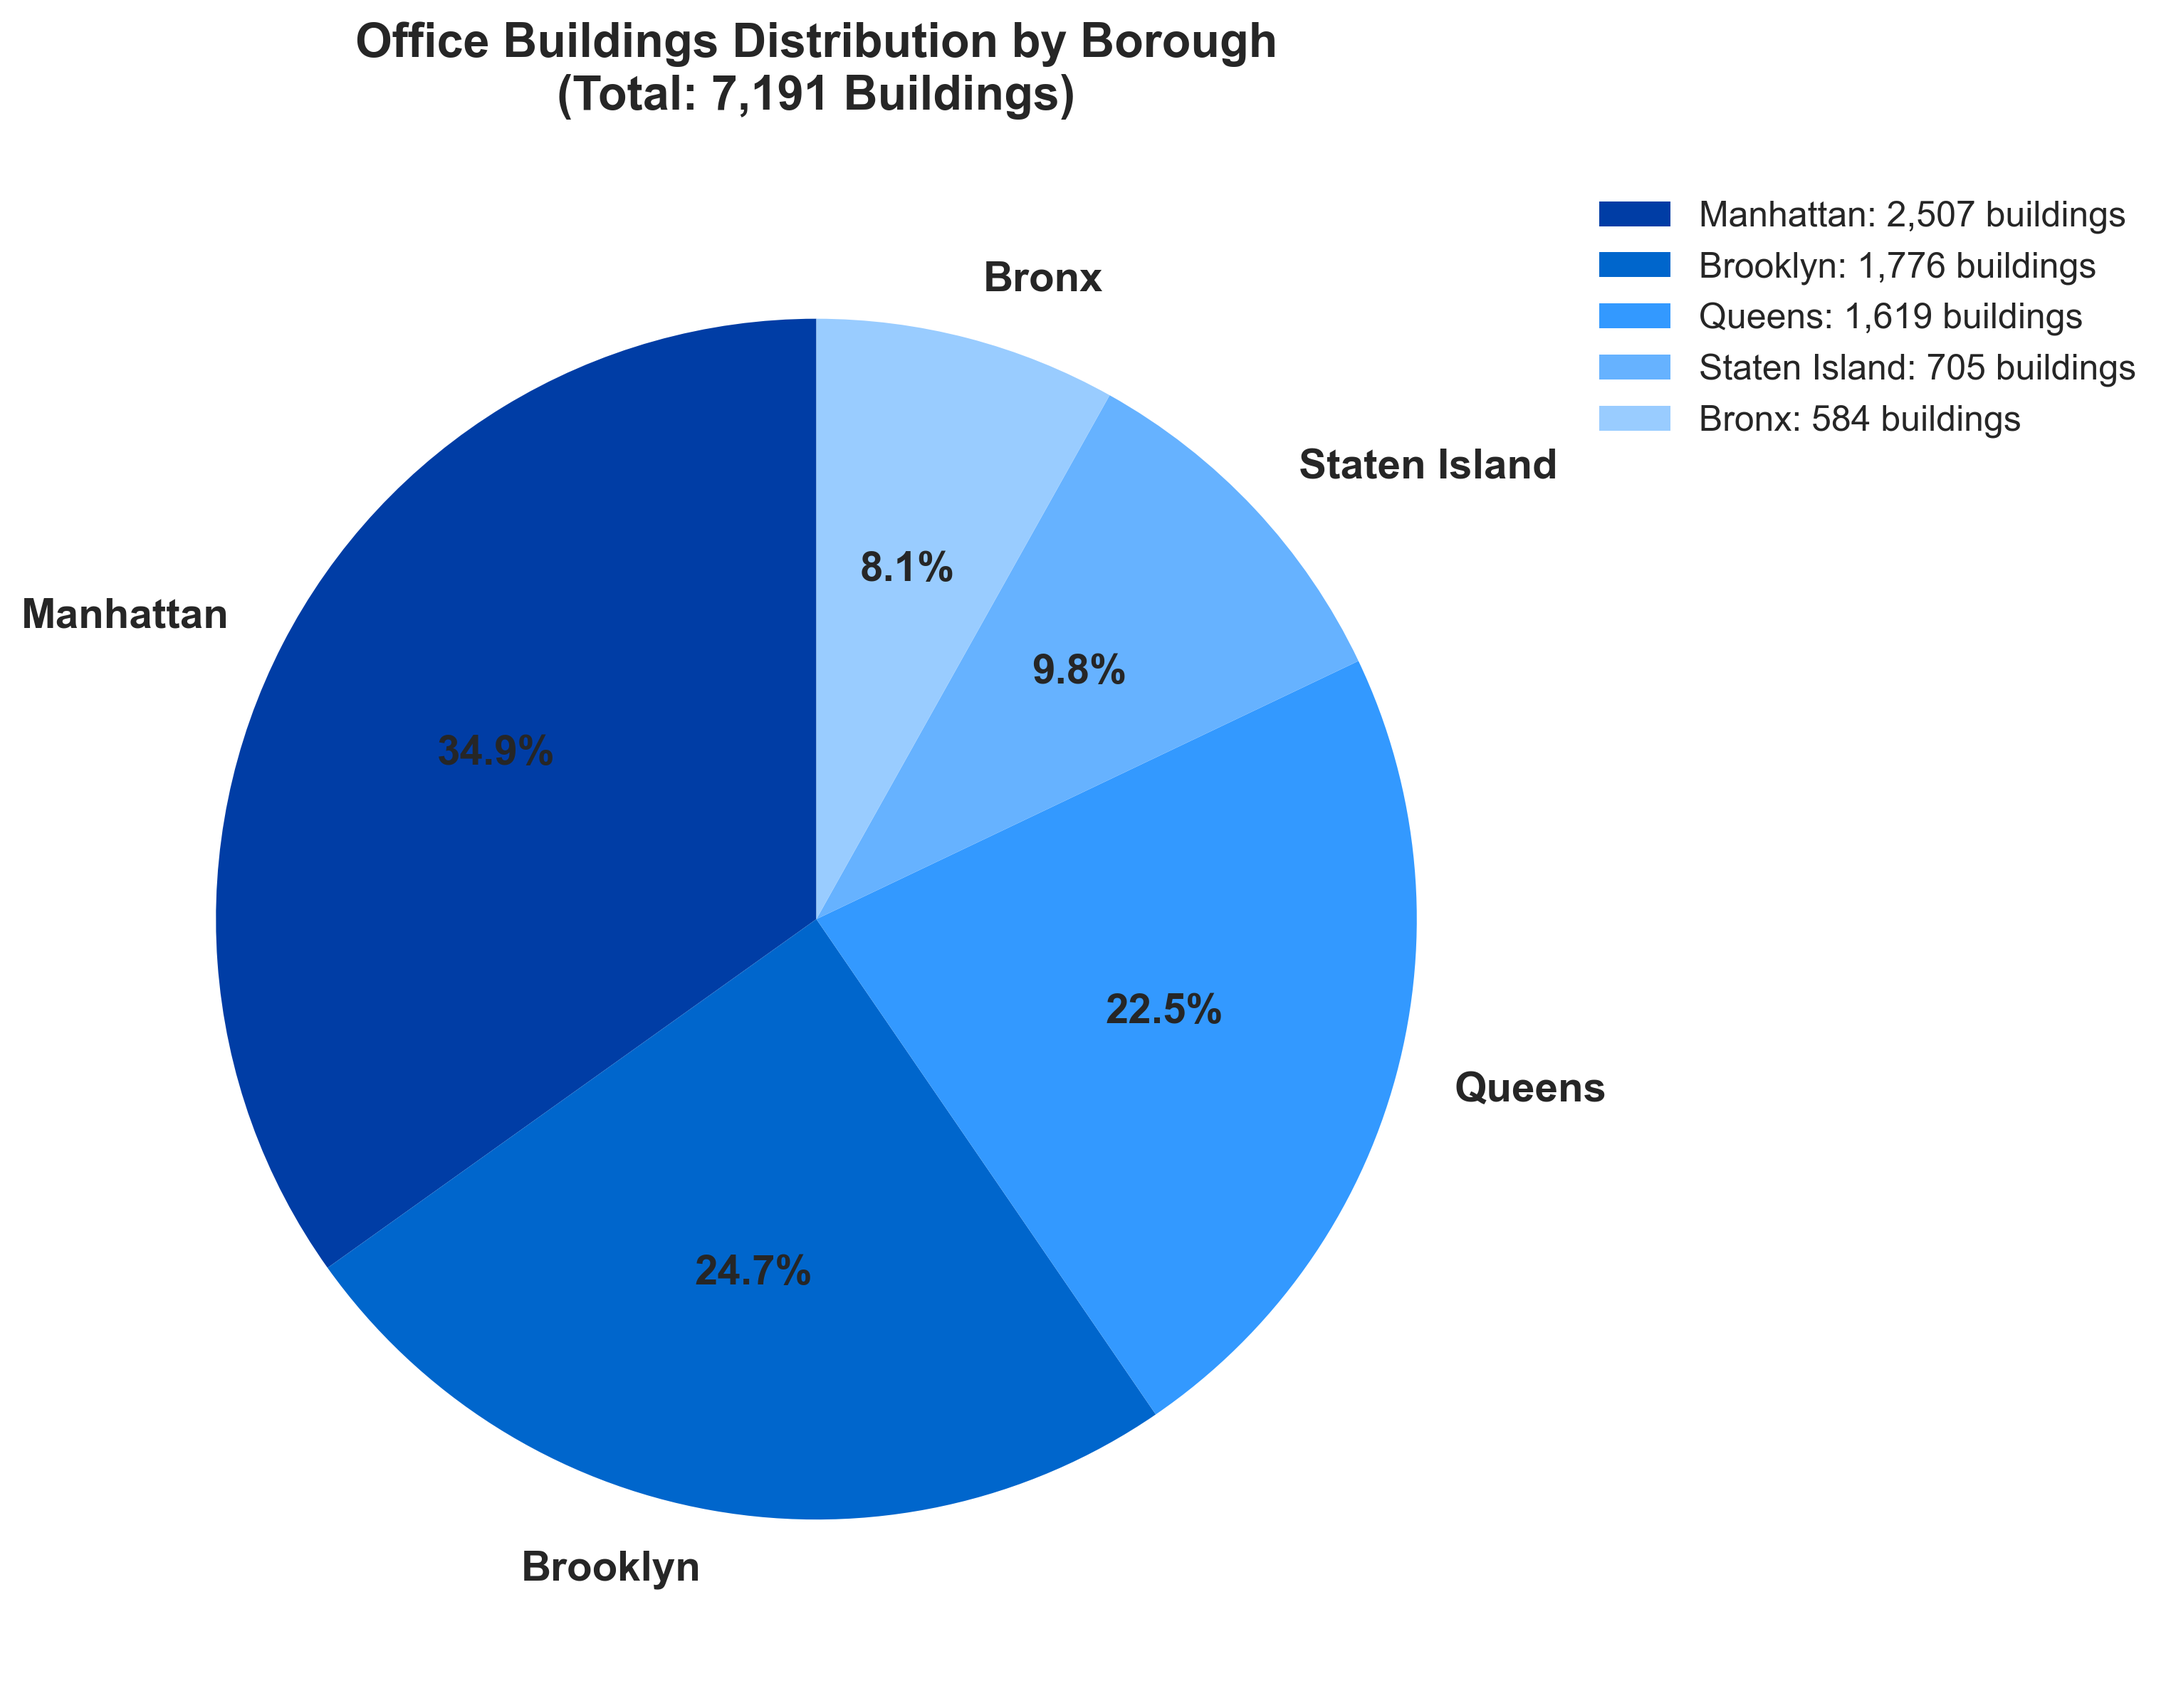
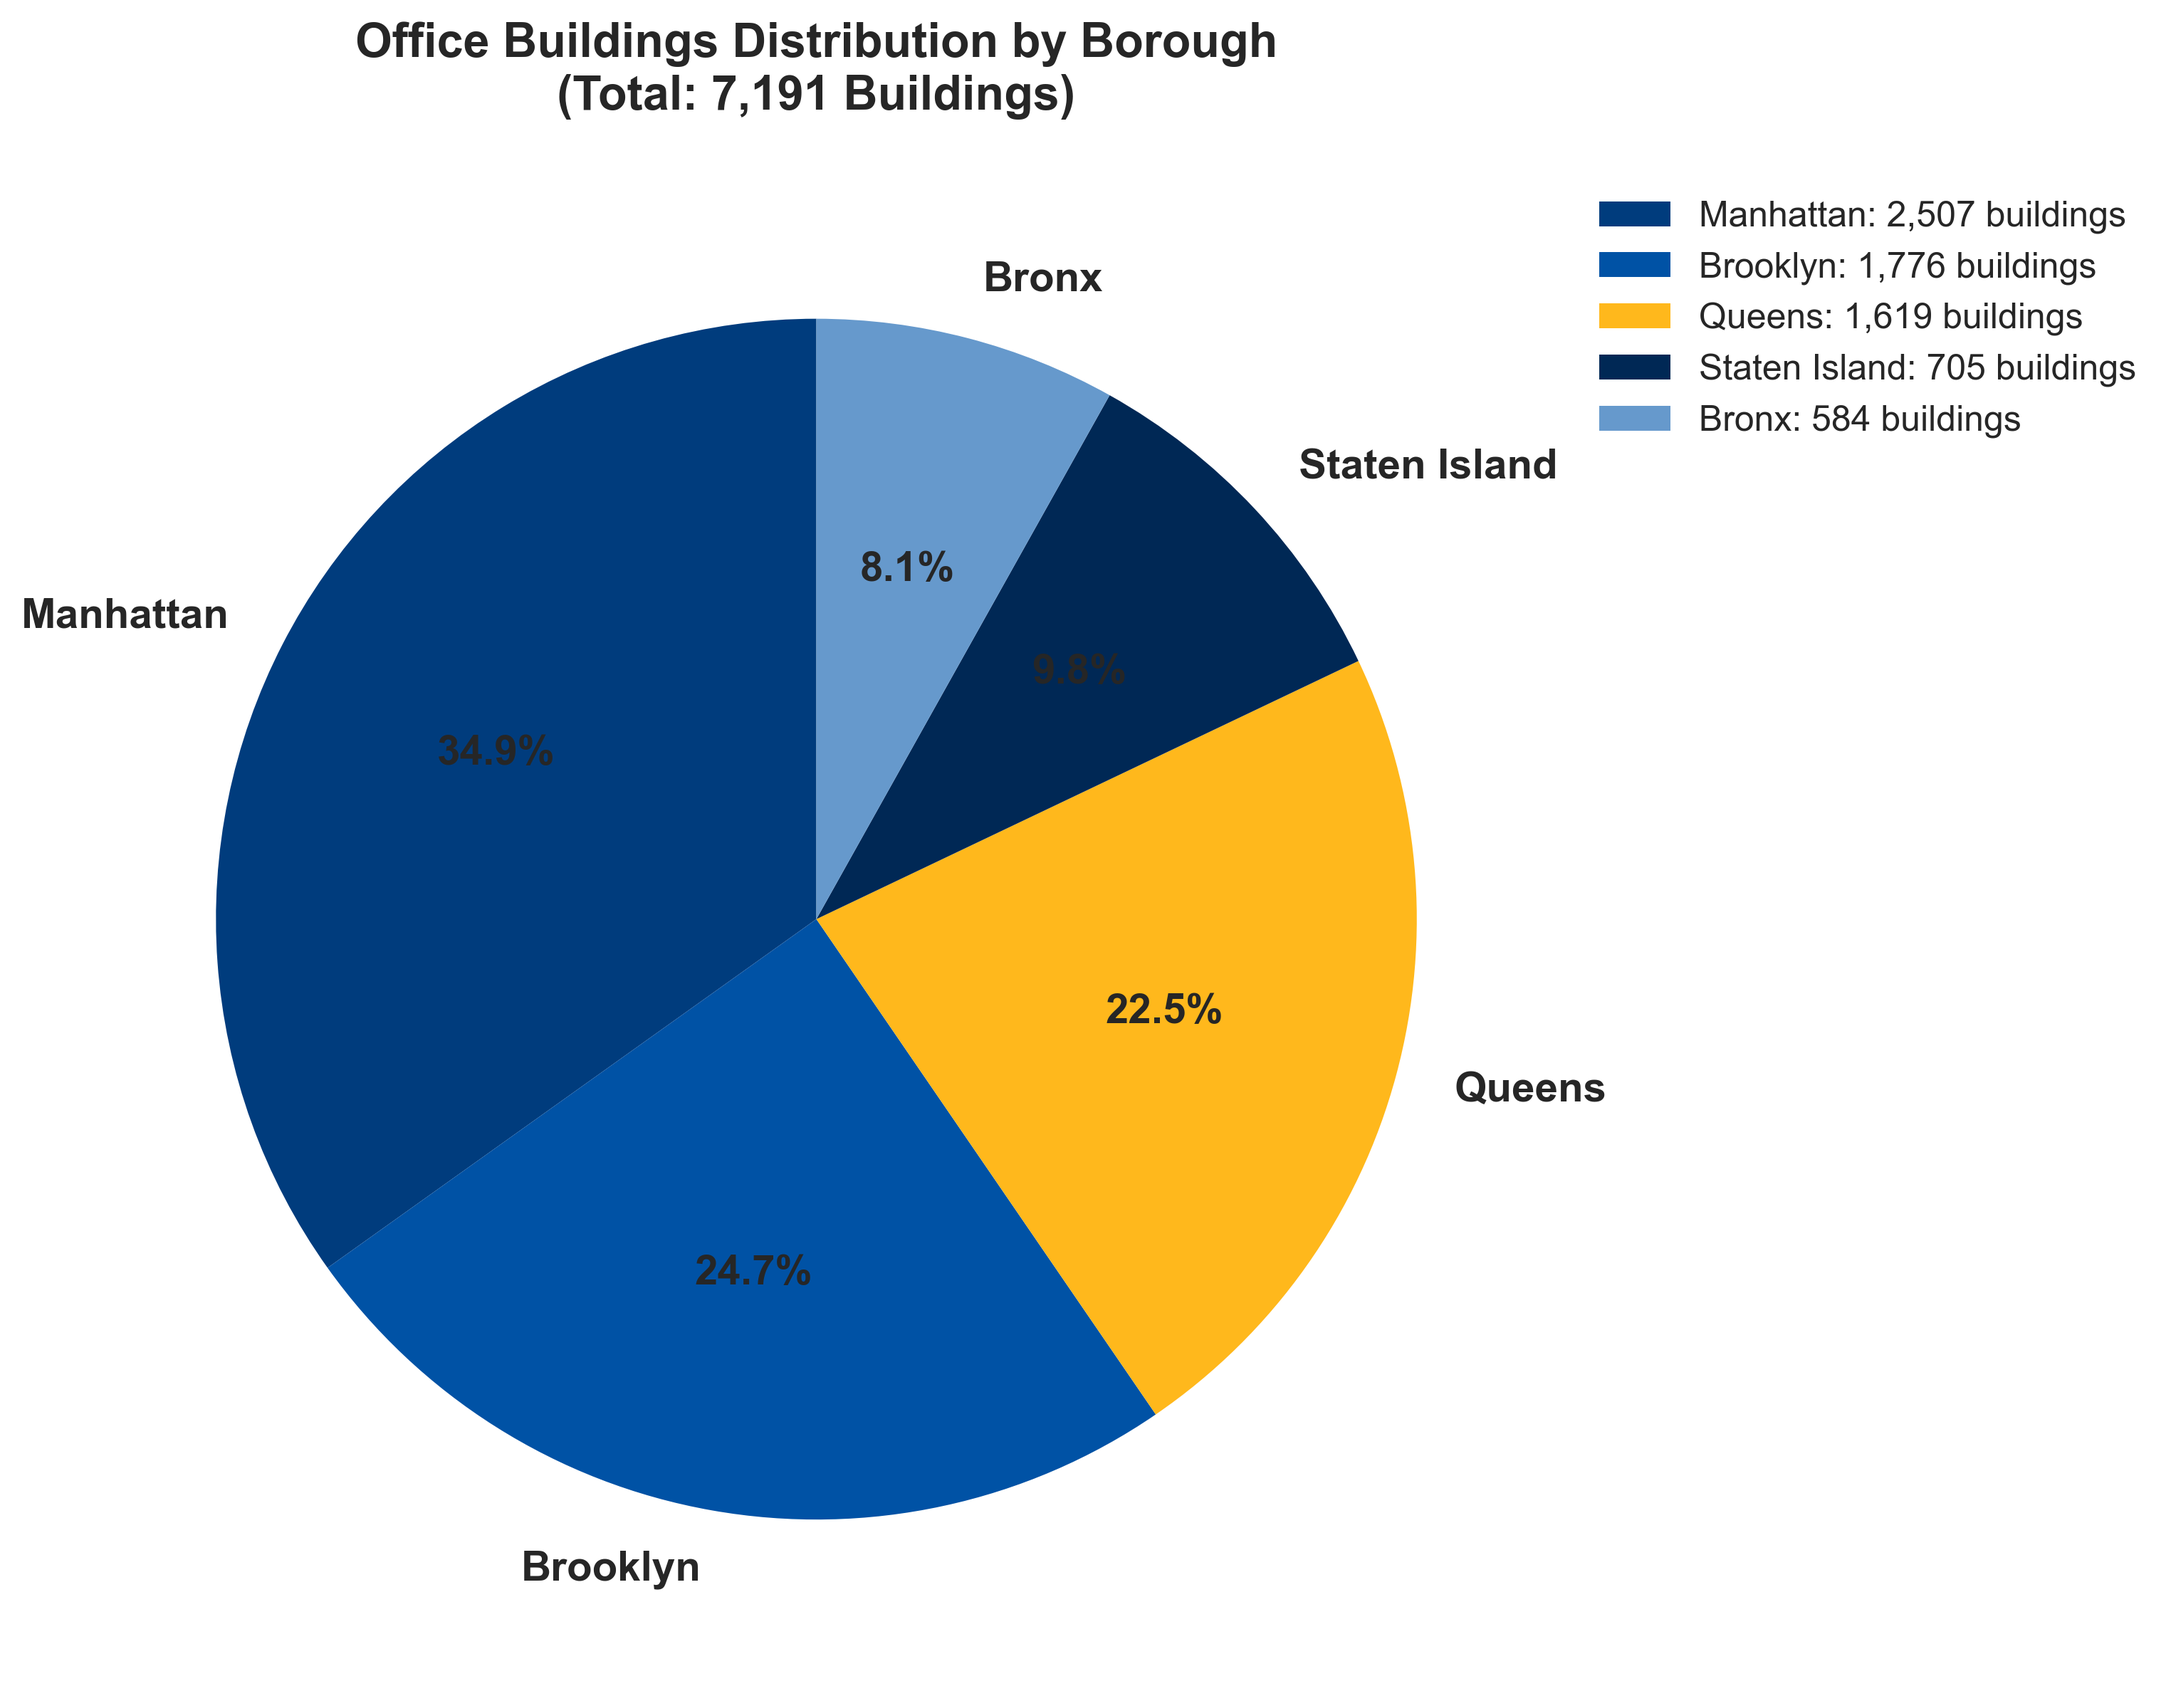
Update poster charts with official PACE University colors (blue #003C7D, gold #FFB81C)

diff --git a/scripts/generate_poster_charts.py b/scripts/generate_poster_charts.py
@@ -10,10 +10,17 @@ import numpy as np
 from pathlib import Path
 
 # Set style for professional academic appearance
-plt.style.use('seaborn-v0_8-darkgrid')
+plt.style.use('seaborn-v0_8-whitegrid')
 sns.set_palette("husl")
-PACE_BLUE = '#003DA5'
-PACE_GOLD = '#FFC72C'
+
+# PACE University Official Colors
+PACE_BLUE = '#003C7D'          # Primary PACE Blue
+PACE_BLUE_LIGHT = '#0052A5'    # Light PACE Blue
+PACE_GOLD = '#FFB81C'          # PACE Gold
+PACE_NAVY = '#002855'          # PACE Navy
+
+# PACE Color Palette for Charts
+PACE_PALETTE = ['#003C7D', '#0052A5', '#FFB81C', '#002855', '#6699CC']
 
 # Create output directory
 output_dir = Path('figures/poster_charts')
@@ -23,7 +30,7 @@ def create_chart1_borough_distribution():
     """Chart 1: Office Buildings Distribution by Borough - Pie Chart"""
     boroughs = ['Manhattan', 'Brooklyn', 'Queens', 'Staten Island', 'Bronx']
     buildings = [2507, 1776, 1619, 705, 584]
-    colors = ['#003DA5', '#0066CC', '#3399FF', '#66B2FF', '#99CCFF']
+    colors = PACE_PALETTE  # Use official PACE colors
     
     fig, ax = plt.subplots(figsize=(10, 8))
     wedges, texts, autotexts = ax.pie(
@@ -136,7 +143,7 @@ def create_chart4_model_comparison():
     """Chart 4: Model Performance Comparison - Horizontal Bar Chart"""
     models = ['XGBoost\n(Champion)', 'Random\nForest', 'Logistic\nRegression']
     roc_auc_scores = [0.9241, 0.9208, 0.8820]
-    colors = ['#2E7D32', '#66BB6A', '#A5D6A7']
+    colors = [PACE_NAVY, PACE_BLUE, PACE_BLUE_LIGHT]  # PACE color gradient
     
     fig, ax = plt.subplots(figsize=(10, 6))
     bars = ax.barh(models, roc_auc_scores, color=colors, edgecolor='black', linewidth=2)
@@ -163,7 +170,8 @@ def create_chart5_shap_importance():
     features = ['building_age', 'construction_activity', 'officearea', 
                 'office_ratio', 'commercial_ratio']
     shap_values = [1.406, 1.149, 0.776, 0.667, 0.568]
-    colors = ['#D32F2F', '#F44336', '#EF5350', '#E57373', '#EF9A9A']
+    # Use PACE blue gradient for importance
+    colors = [PACE_NAVY, PACE_BLUE, PACE_BLUE_LIGHT, '#4A90E2', '#6699CC']
     
     fig, ax = plt.subplots(figsize=(10, 7))
     bars = ax.barh(features, shap_values, color=colors, edgecolor='black', linewidth=2)
@@ -189,8 +197,8 @@ def create_chart6_borough_risk():
     risk_percentages = [40.9, 32.9, 27.9, 25.5, 22.1]
     building_counts = [1776, 1619, 584, 705, 2507]
     
-    # Color gradient from red (high risk) to green (low risk)
-    colors = ['#D32F2F', '#FF9800', '#FFC107', '#8BC34A', '#4CAF50']
+    # PACE colors: Navy (high risk) to Light Blue (low risk) with Gold accent
+    colors = [PACE_NAVY, '#E74C3C', PACE_GOLD, '#4A90E2', PACE_BLUE_LIGHT]
     
     fig, ax = plt.subplots(figsize=(12, 7))
     bars = ax.bar(boroughs, risk_percentages, color=colors, edgecolor='black', linewidth=2)
@@ -224,7 +232,7 @@ def create_chart7_business_impact():
     # Success Rate Comparison
     methods = ['Random\nTargeting', 'Model-Driven\nTargeting']
     success_rates = [30, 93]
-    colors_success = ['#FF5252', '#4CAF50']
+    colors_success = ['#E74C3C', PACE_BLUE]  # Red for poor, PACE blue for excellent
     
     bars1 = ax1.bar(methods, success_rates, color=colors_success, edgecolor='black', linewidth=2)
     for bar, rate in zip(bars1, success_rates):
@@ -239,7 +247,7 @@ def create_chart7_business_impact():
     
     # Cost Comparison
     costs = [5.0, 3.6]
-    colors_cost = ['#FF5252', '#4CAF50']
+    colors_cost = ['#E74C3C', PACE_BLUE]  # Red for high cost, PACE blue for low cost
     
     bars2 = ax2.bar(methods, costs, color=colors_cost, edgecolor='black', linewidth=2)
     for bar, cost in zip(bars2, costs):
@@ -251,10 +259,10 @@ def create_chart7_business_impact():
     ax2.set_ylim(0, 6)
     ax2.set_title('Total Cost for Equivalent Coverage', fontsize=14, weight='bold')
     
-    # Add improvement annotation
+    # Add improvement annotation with PACE gold
     ax2.text(0.5, 4.5, '85% Cost\nReduction', ha='center', va='center',
-            fontsize=14, weight='bold', color='green',
-            bbox=dict(boxstyle='round', facecolor='lightgreen', alpha=0.8))
+            fontsize=14, weight='bold', color=PACE_NAVY,
+            bbox=dict(boxstyle='round', facecolor=PACE_GOLD, alpha=0.9, edgecolor=PACE_BLUE, linewidth=2))
     
     fig.suptitle('Business Impact: Model-Driven vs Random Targeting\n3.1× Efficiency Improvement', 
                 fontsize=18, weight='bold', y=1.02)
